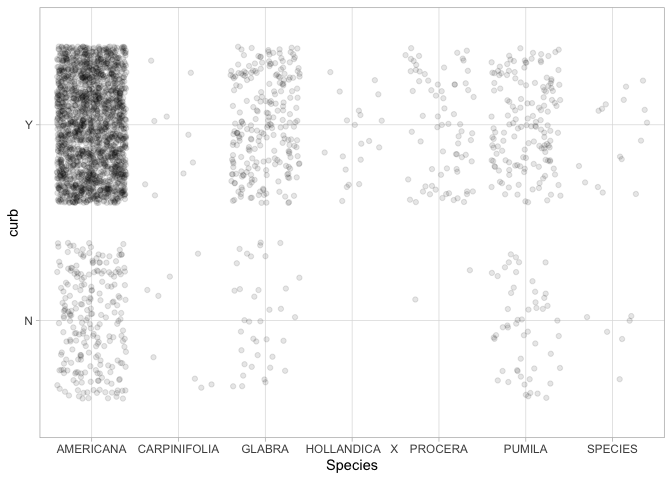
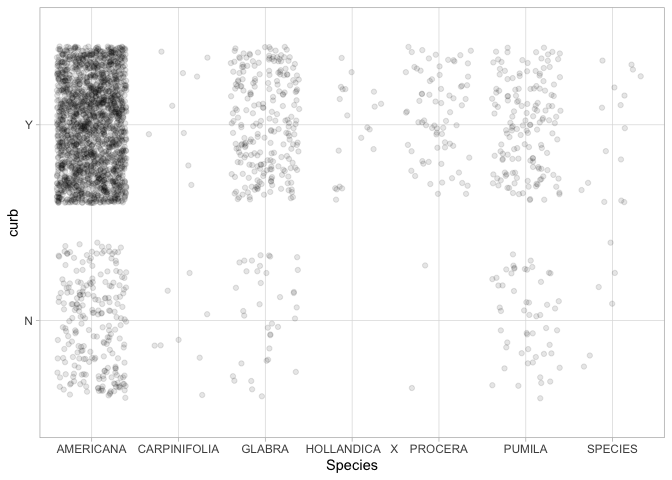
Re-knit the Rmd file to be up to date on the changes made

diff --git a/Milestone-2-MiniDataAnalysis.md b/Milestone-2-MiniDataAnalysis.md
@@ -487,7 +487,7 @@ for question 4.3 within the [STAT545A worksheet
 # call the dataset 
 vancouver_trees %>% 
 ## filter for the specific tree genus' needed
-  filter(genus_name %in% c("ULMUS", "STYRAX", "PYRUS")) %>% 
+  filter(genus_name == c("ULMUS", "STYRAX", "PYRUS")) %>% 
 ## plot the data using ggplot
 ## x = diameter, y = genus_name
   ggplot(aes(diameter, genus_name)) +
@@ -502,7 +502,10 @@ vancouver_trees %>%
   scale_fill_discrete("")
 ```
 
-    ## Picking joint bandwidth of 1.73
+    ## Warning in genus_name == c("ULMUS", "STYRAX", "PYRUS"): longer object length is
+    ## not a multiple of shorter object length
+
+    ## Picking joint bandwidth of 2.01
 
 ![](Milestone-2-MiniDataAnalysis_files/figure-gfm/unnamed-chunk-9-1.png)<!-- -->
 
@@ -1408,8 +1411,10 @@ glimpse(untidy_ulmusGenus)
     ## $ `ELM SPECIES`      <chr> NA, NA, NA, NA, NA, NA, NA, NA, NA, NA, NA, NA, NA,…
     ## $ `CAMPERDOWN ELM`   <chr> NA, NA, NA, NA, NA, NA, NA, NA, NA, NA, NA, NA, NA,…
 
-Now I will tidy back the \*untidy_ulmusGenus dataset by using the
-pivot_longer function!
+Now I will tidy back the *untidy_ulmusGenus* dataset by using the
+pivot_longer function! (I am not going to tidy back the
+*untidy_vancouver_trees* dataset as it is very large and will
+unnecessarily take up space)
 
 ``` r
 tidy_ulmusGenus <- untidy_ulmusGenus %>% 
